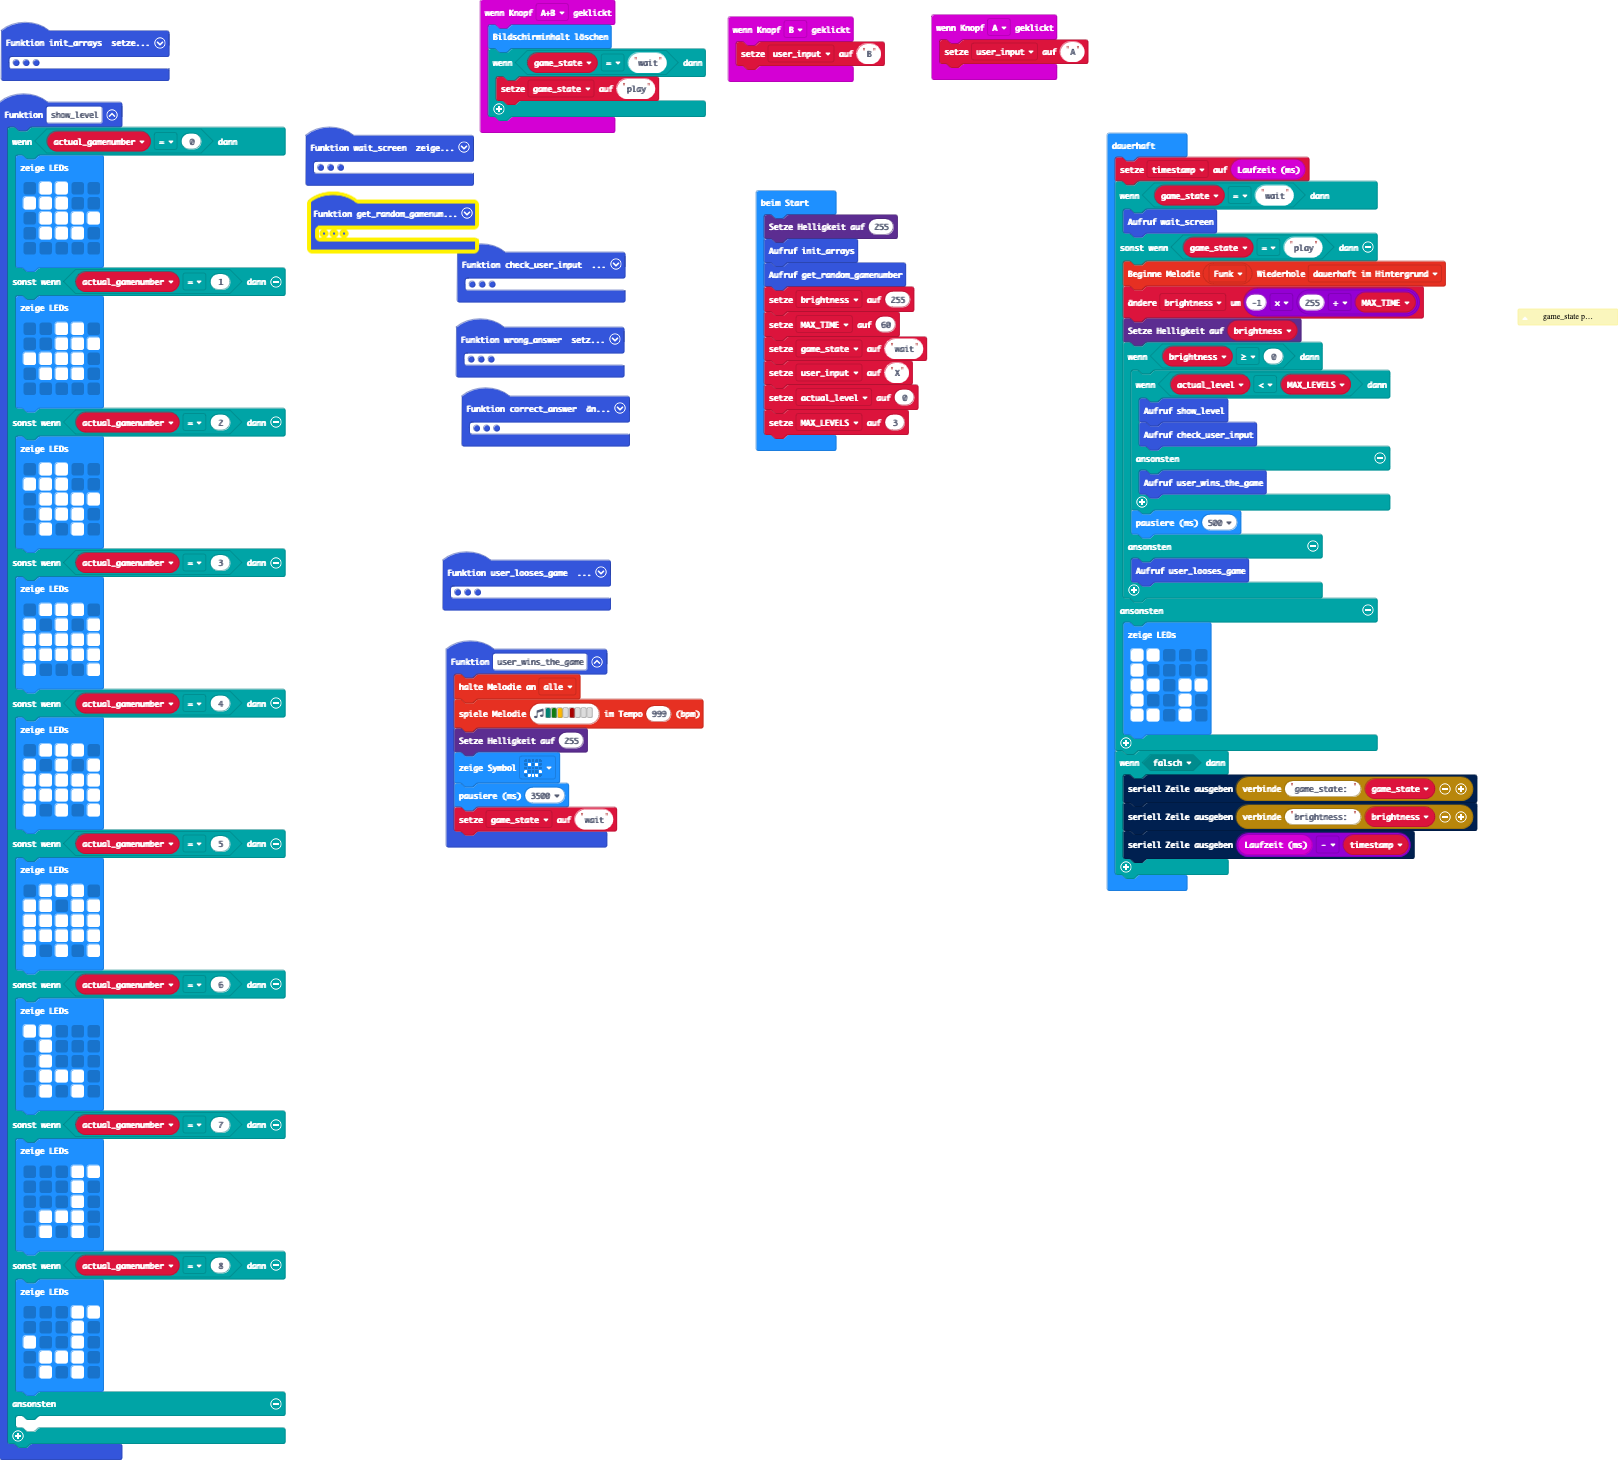
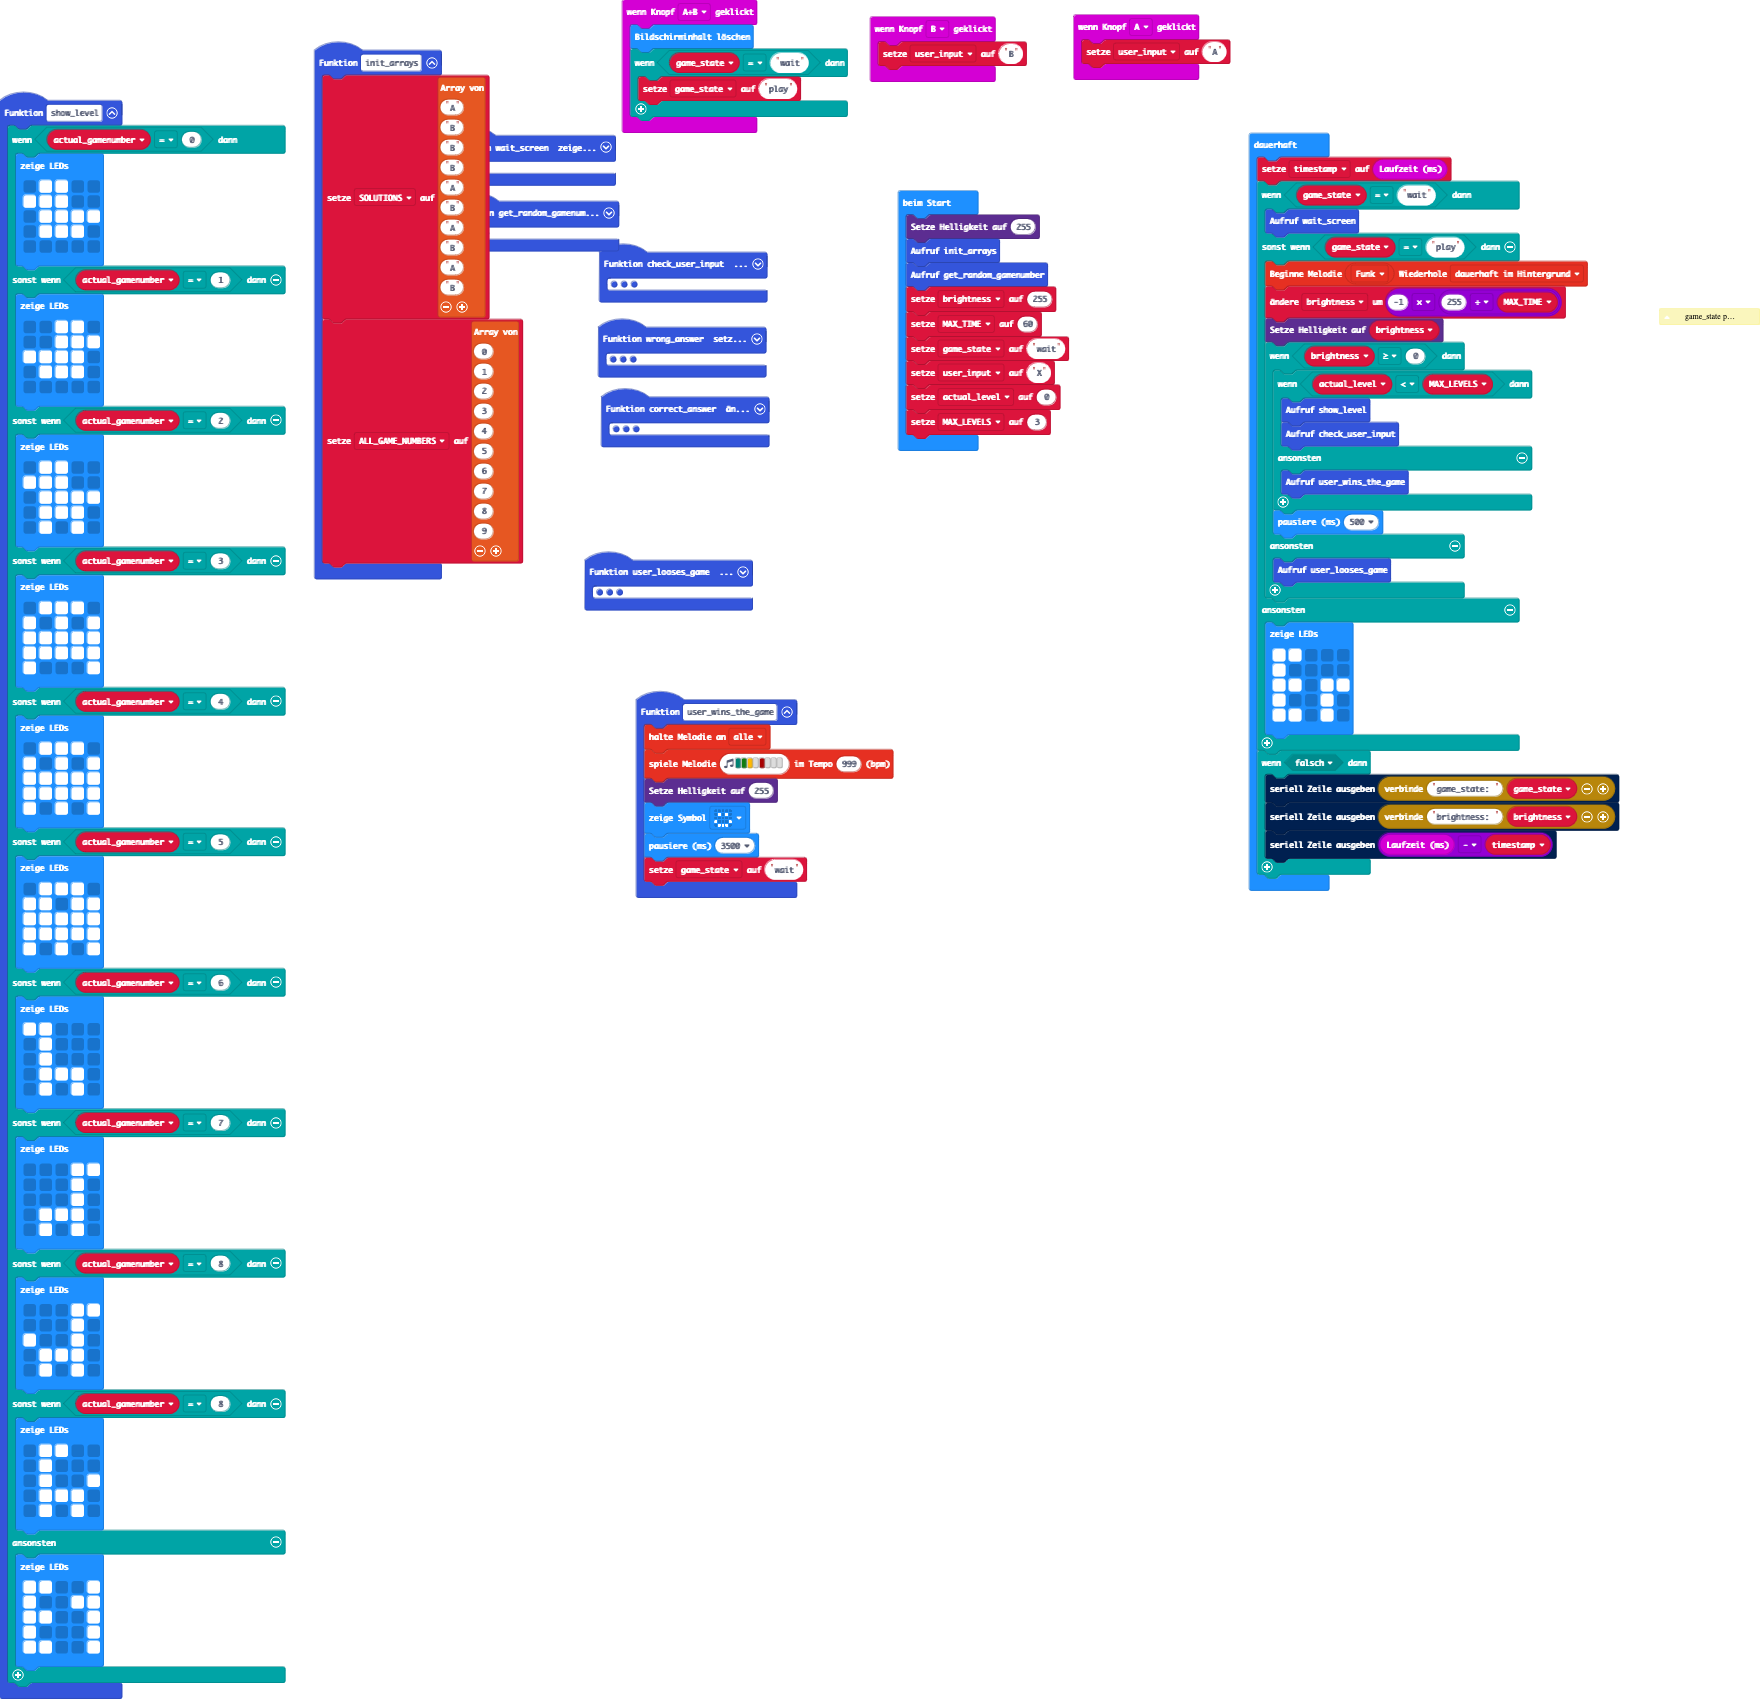
update patterns and solutions

diff --git a/main.ts b/main.ts
@@ -5,12 +5,12 @@ function init_arrays () {
     SOLUTIONS = [
     "A",
     "B",
-    "A",
     "B",
     "B",
+    "A",
     "B",
     "A",
-    "A",
+    "B",
     "A",
     "B"
     ]
@@ -145,8 +145,22 @@ function show_level () {
             . # # # .
             . # . # .
             `)
+    } else if (actual_gamenumber == 8) {
+        basic.showLeds(`
+            . # # . .
+            . # . . .
+            . # . . #
+            . # # # .
+            . # . # .
+            `)
     } else {
-    	
+        basic.showLeds(`
+            # # . . #
+            # . . # #
+            # # . . #
+            # . . . #
+            # # . . #
+            `)
     }
 }
 input.onButtonPressed(Button.A, function () {
